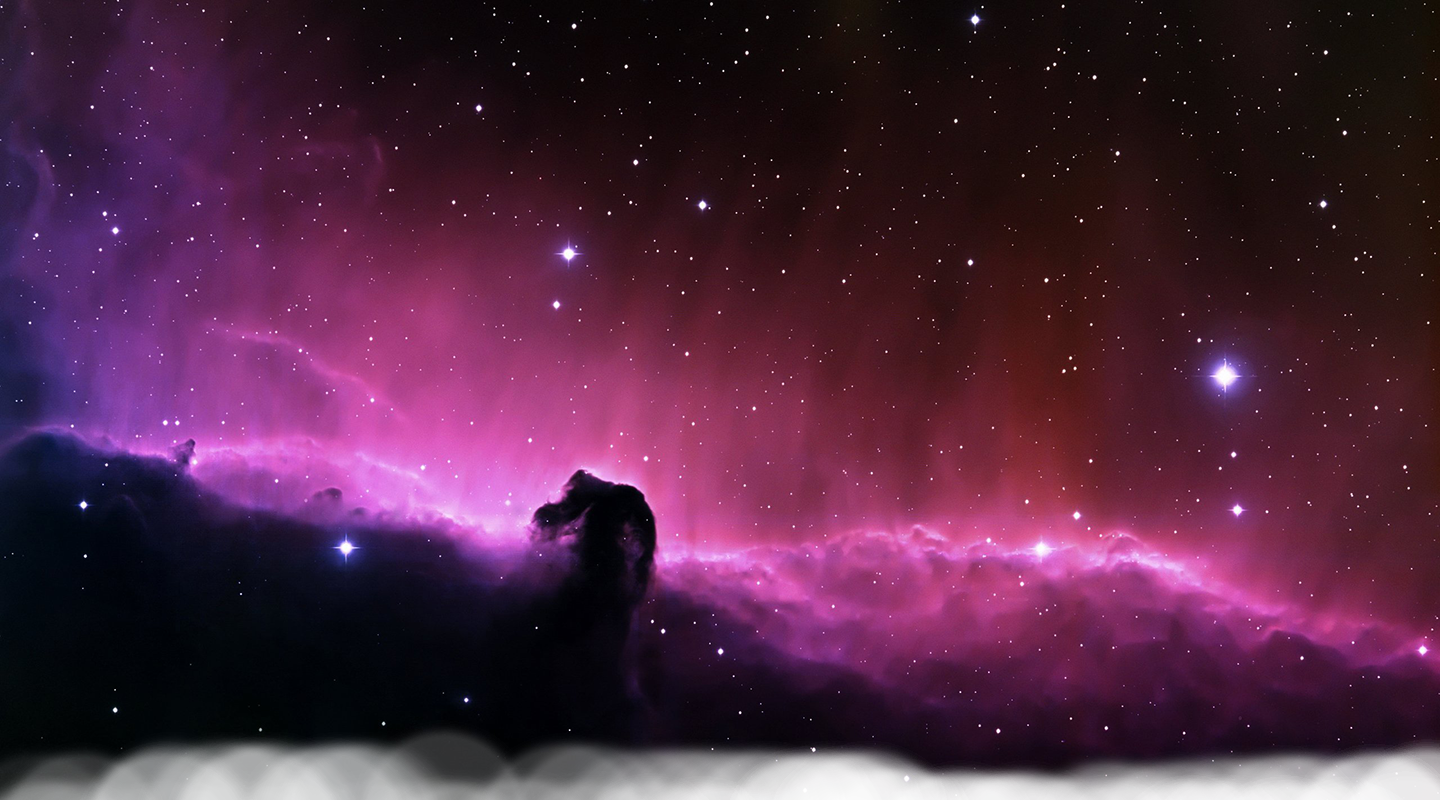
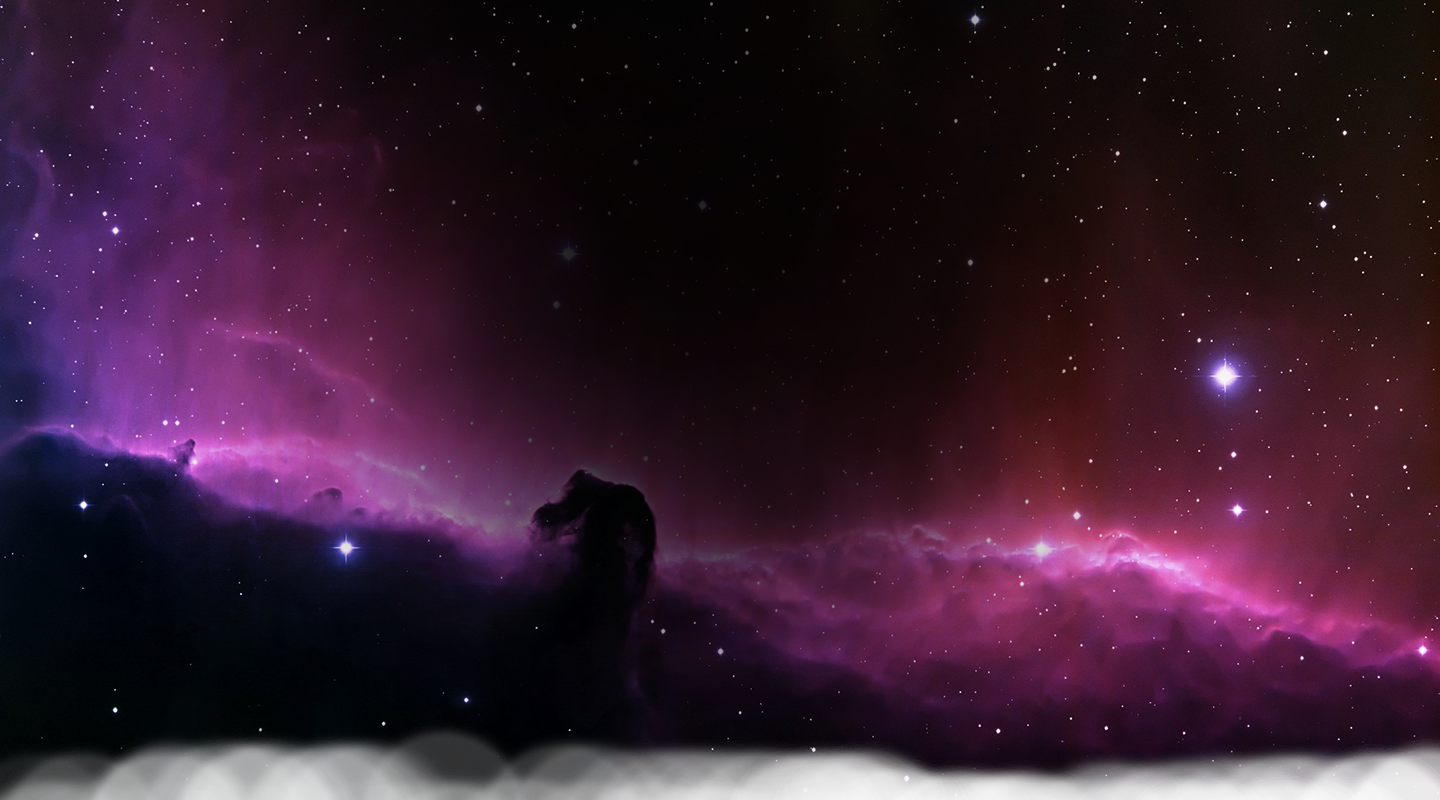
ny bakgrunn

Changed region(s): [[0.1562, 0.1562, 0.75, 0.8438]]

diff --git a/global.css b/global.css
@@ -48,7 +48,7 @@ footer {
 
 
 body{
-    background-image: url('bilder/stone.png');
+    background-image: url('bilder/stone.copy.png');
     background-repeat:no-repeat;
     background-color: #000000;
     max-height: 20em;
@@ -77,7 +77,7 @@ body{
 	padding-bottom: -3;
     margin-top: 5%;
     overflow: hidden;
-    background: rgba(0, 0, 0, 0.6);
+    background: rgba(0, 0, 0, 0.);
     text-align: center;
 }
 
